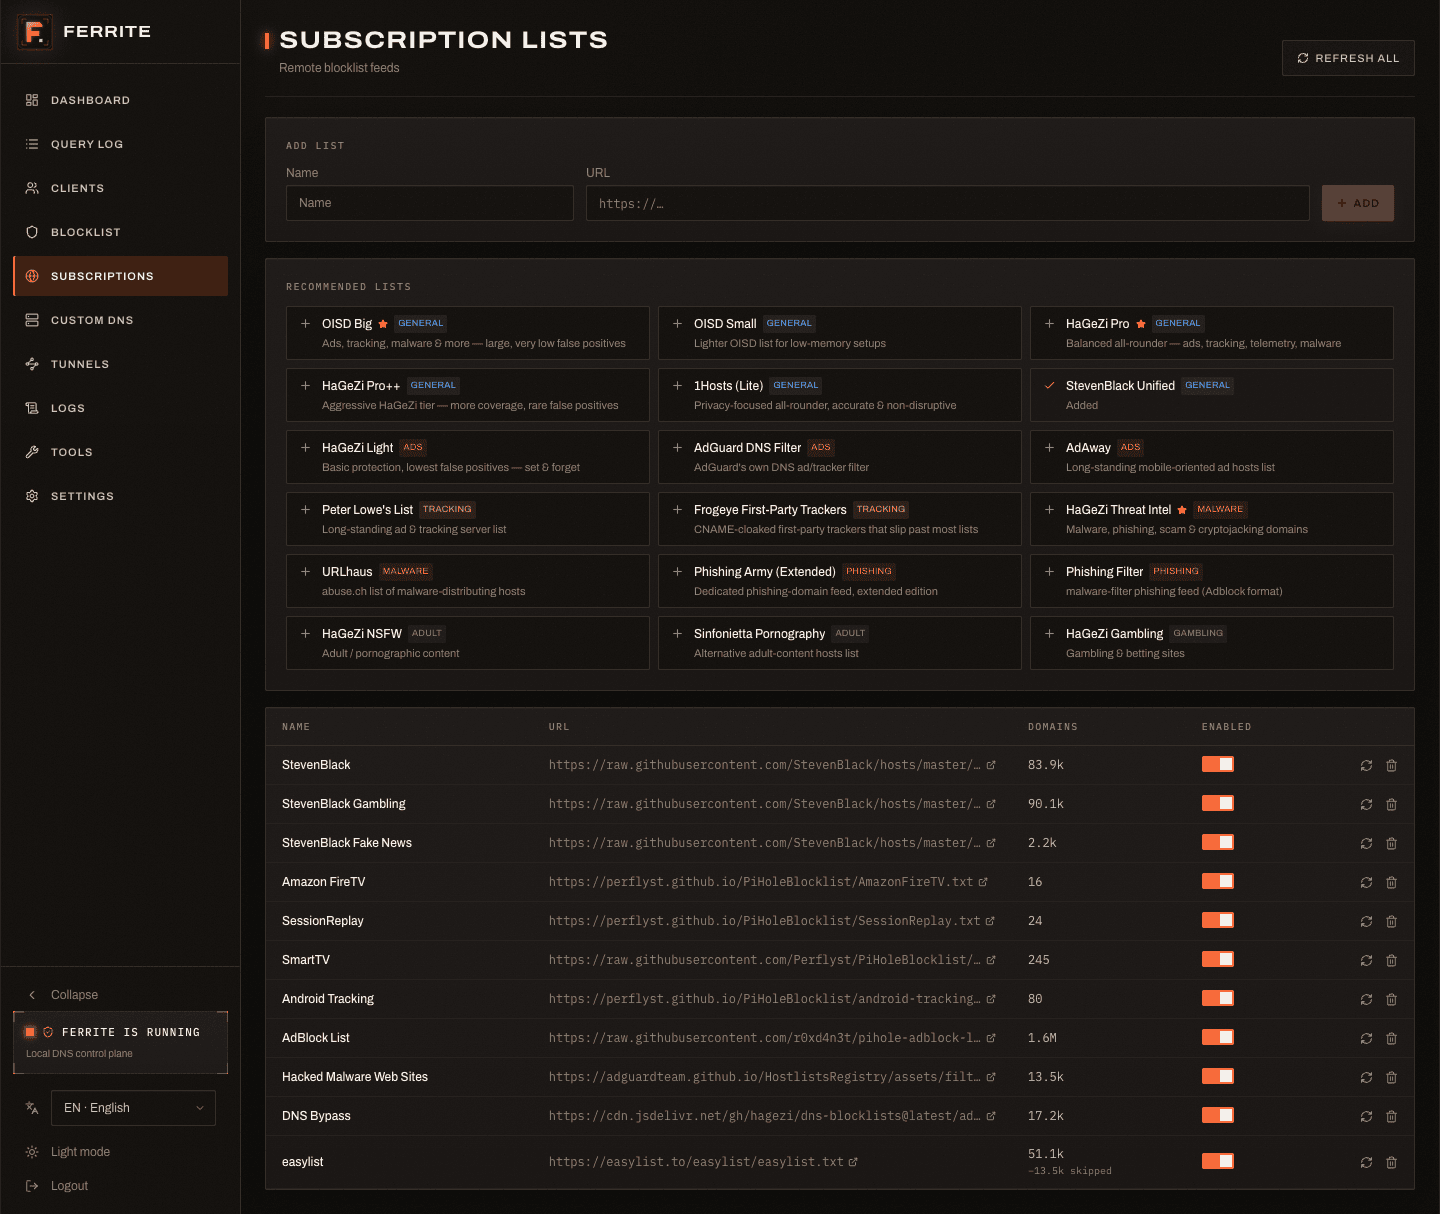
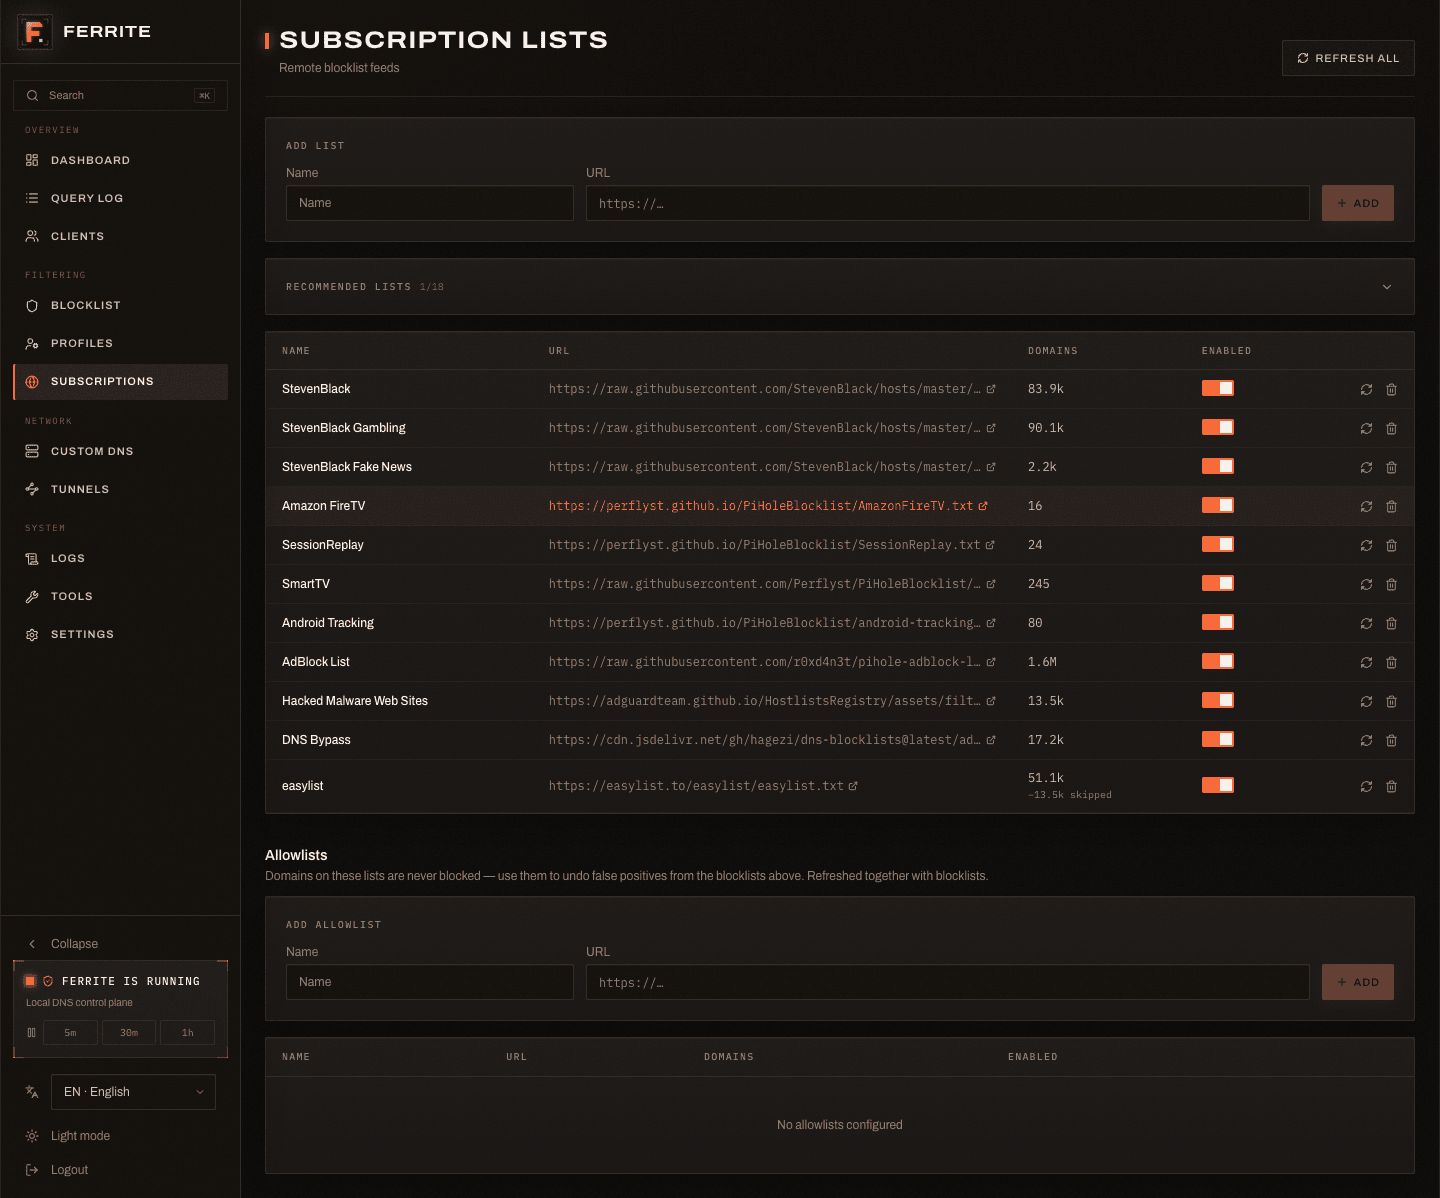
screenshots and README for 0.2: profiles, the device and domain panels, notifications and signed-in browsers; what the panel does, grouped by what you came to do

diff --git a/README.md b/README.md
@@ -1,50 +1,73 @@
 # Ferrite Web UI
 
-React/Vite control panel for Ferrite, a DNS sinkhole and local-network DNS
-server. The web UI talks to the Ferrite HTTP API through same-origin `/api`
-requests and can be run either through Vite during development or as static
-files served by the Ferrite server.
+The control panel for [Ferrite](https://github.com/syntlyx/ferrite-server) — a
+self-hosted DNS filter and router. React + Vite; it talks to the Ferrite API
+through same-origin `/api` requests and runs either under Vite during
+development or as static files served by the Ferrite server itself.
 
 ## Screenshots
 
 Captures live in [`screenshots/`](screenshots/), rendered from real (anonymized)
-API data using the harness.
+API data with the screenshot harness.
 
 ![Dashboard](screenshots/dashboard.png)
-_Live dashboard — counters, block rate, 24h chart, top domains, system metrics._
+_Dashboard — counters, the 24-hour traffic chart, top domains and devices, live queries, the box's health._
+
+![Profiles](screenshots/profiles.png)
+_Profiles — services to block per device, schedules, SafeSearch and YouTube Restricted Mode, default-deny._
+
+![Device panel](screenshots/device.png)
+_One device in one place — its profile and whether it is on now, a day of activity, the services behind it, what it asked for and what was blocked._
+
+![Domain panel](screenshots/domain.png)
+_One domain in one place — blocked or not and why, where its traffic goes, who asked for it._
 
 ![Tunnels](screenshots/tunnels.png)
-_Selective routing — per-device rules through Direct / SOCKS5 / WireGuard / DPI-evasion egresses._
+_Tunnels — per-device and per-service routing through WireGuard, SOCKS5 or DPI evasion, with live egress health._
 
 ![Query log](screenshots/queries.png)
-_Query log with domain / client / status / time filters._
+_Query log — device names first, filters, a compact mode, one click to the domain or the device._
 
-![Blocklist check](screenshots/blocklist.png)
-_Why-blocked — which list or rule matched, and the whitelist entry that exempts a domain._
+## What it includes
 
-![Tools](screenshots/tools.png)
-_Built-in DNS lookup (nslookup) and WHOIS._
+**Seeing what happens**
 
-## What It Includes
+- Dashboard: counters, block rate, the 24-hour chart, top domains, blocked
+  domains and devices, live queries, CPU / RAM / disk / network of the box.
+- Query log with filters for domain, device, status and time, grouping and a
+  compact mode.
+- Side panels for a **domain** (verdict and the list or rule behind it, routing,
+  recent askers, block / allow) and a **device** (profile and schedule, pause,
+  name, a day of activity, the services it used, top and blocked domains,
+  routes) — reachable from every page and from the ⌘K / Ctrl+K palette.
+- Devices: names (alias, PTR or mDNS), a "new" badge for first sightings,
+  per-device pause and filtering bypass.
 
-- Live dashboard with query counters, block rate, 24h charts, top domains,
-  top blocked domains, clients, recent queries, and system metrics.
-- Query log with filters for domain, client, status, and time ranges.
-- Client list and manual aliases.
-- Blacklist and whitelist management.
-- Subscription list management with per-list refresh and refresh-all actions.
-- Custom DNS records for `A`, `AAAA`, and `CNAME`.
-- Selective routing (Tunnels): manage egresses (Direct, SOCKS5, WireGuard,
-  DPI-evasion) and domain rules, with live egress health and a buffer-size speed
-  calculator.
-- Live server logs viewer (in-memory, delta-polled, per-level exclude filters).
-- Diagnostic tools: DNS lookup (nslookup) and WHOIS, plus a why-blocked domain
-  check that shows which list or rule matched.
-- Runtime settings for auth, DNS TTLs, log ignore patterns, log retention, API
-  bind address, cache sizing, and the served `web_dir`.
-- Server and web update checks/actions.
-- Password/session-token login flow, light/dark theme, and a localized UI
-  (English, Ukrainian, Spanish, German, French).
+**Deciding what is allowed**
+
+- Profiles for chosen devices: catalog services to block (TikTok, Roblox,
+  YouTube… 43 in seven categories), weekly schedules, SafeSearch and YouTube
+  Restricted Mode, list subsets, own block / allow entries, default-deny.
+- Network-wide blocked services and SafeSearch.
+- Blocklist and allowlist subscriptions with a curated catalog, manual entries,
+  and a "why blocked" check.
+- Custom DNS records (`A`, `AAAA`, `CNAME`, exact or wildcard).
+
+**Routing**
+
+- Tunnels: egresses (Direct, SOCKS5, WireGuard, DPI evasion) and rules by
+  domain or by service, scoped to devices, with live health and per-rule hits.
+
+**Running the box**
+
+- Settings: DNS and cache, upstreams, privacy switches for the query log and
+  statistics, retention, panel shortcut, password and API key, signed-in
+  browsers (sign one or all others out), notifications (ntfy, Telegram,
+  Discord, Slack, Gotify or JSON), the MCP endpoint for AI assistants, config
+  backup and restore, server and panel updates.
+- Live server logs and diagnostic tools (DNS lookup, DNSSEC, WHOIS, certificate
+  and reachability probes).
+- Light and dark themes; English, Ukrainian, German, Spanish and French.
 
 ## Stack
 
